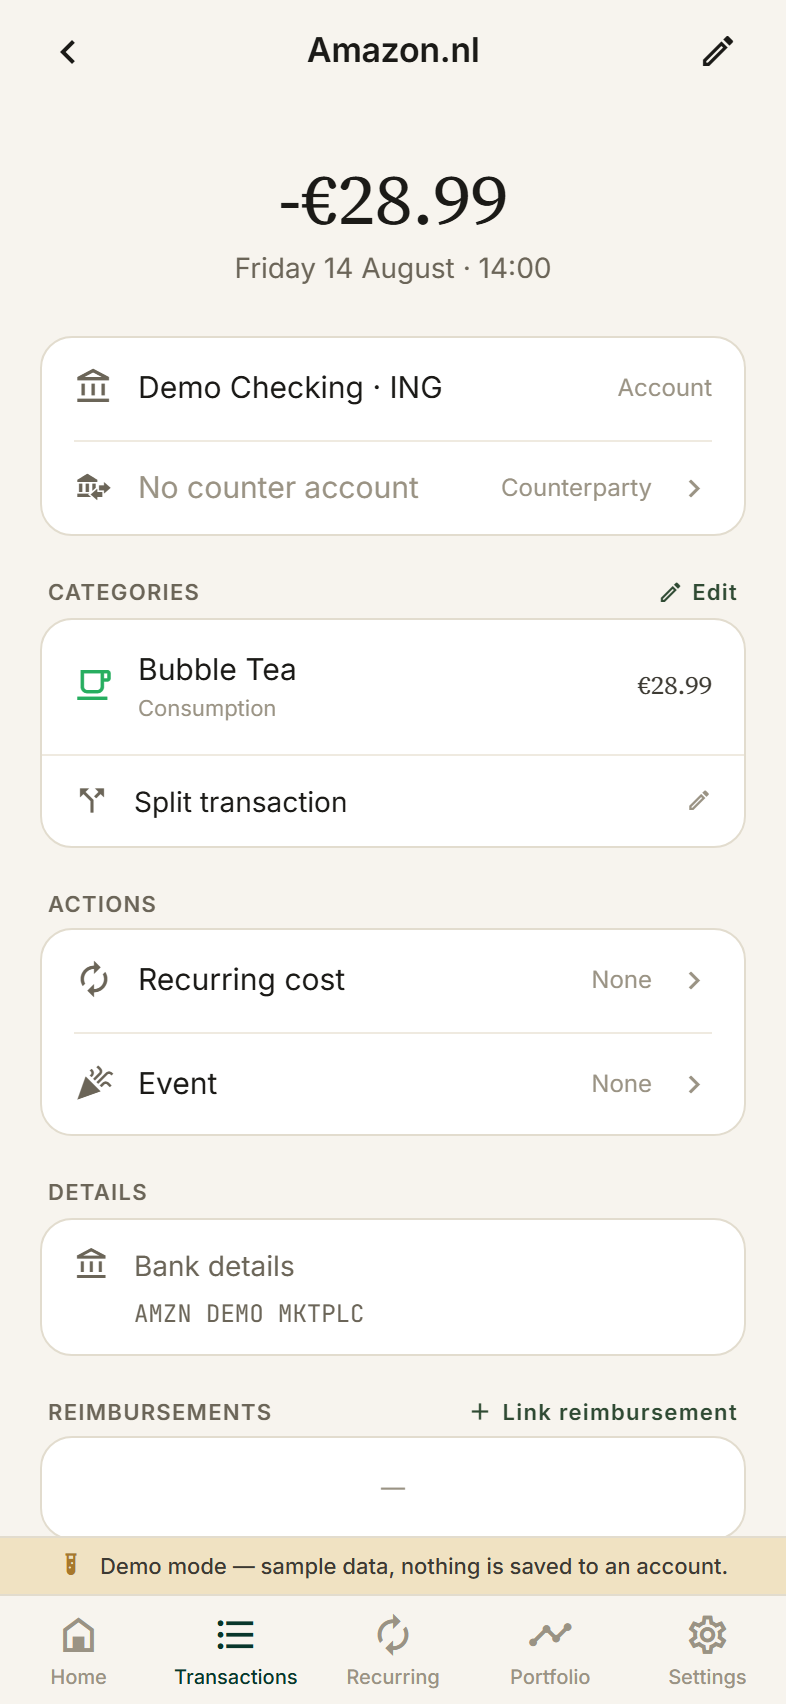
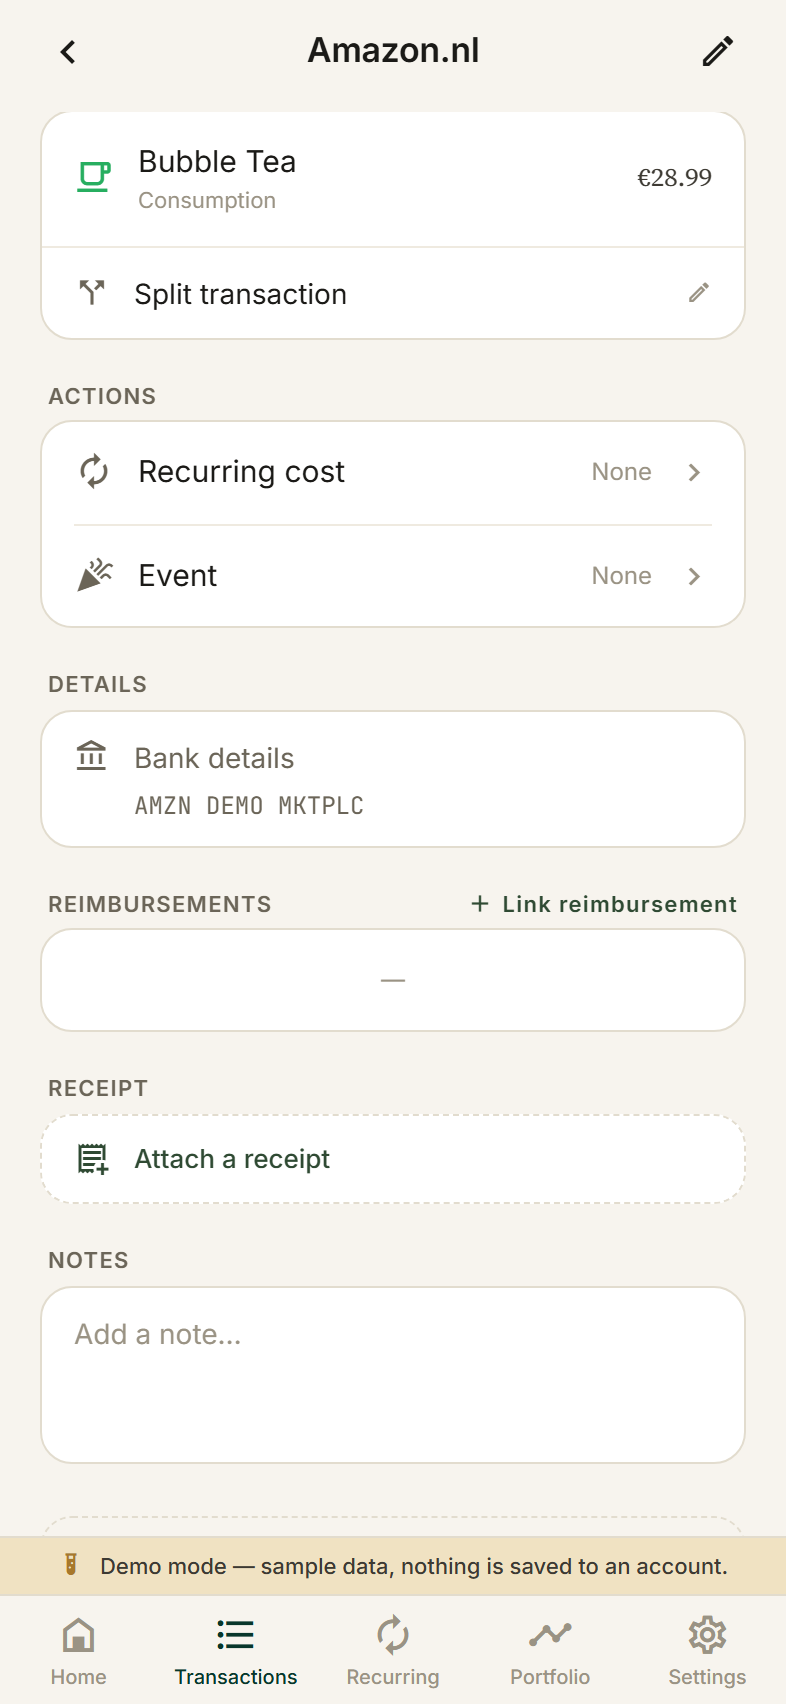
docs(guide): retell the 38-issue batch across the ten sections

diff --git a/apps/web/public/guide/index.html b/apps/web/public/guide/index.html
@@ -58,7 +58,7 @@
   <section id="home">
     <h2>Home is yours</h2>
     <p>Home is a landing zone of blocks: review queue, this period, new transactions, budgets, upcoming costs and more. Features you haven't tried yet gather in one compact Explore block instead of filling the page — tap a row to start; each disappears once it's in use, and Explore is a block like any other, so Customize Home orders or hides it too. Reorder or hide blocks with Customize Home at the bottom. The avatar on the top right switches spaces.</p>
-    <ul class="tips"><li>The balance band folds out to show every account — and you pick what the big number MEANS per space: net worth, total cash, safe to spend, or hand-picked accounts, with a per-account say in the sum.</li>
+    <ul class="tips"><li>The balance band folds out to show every account — and you pick what the big number MEANS per space: net worth, total cash and safe to spend are premade formulas, and "Picked accounts" is the one you compose yourself, checkbox by checkbox. On a wide screen Home splits into two columns only once there are enough blocks to fill them.</li>
 <li>Portfolio has its own tab at the bottom.</li>
 <li>The bell has two tabs now: Notifications collects release news, due reminders, the interest-rate nudge and the weekly digest (a numbered badge counts what you haven’t seen — opening the tab clears it), and Activity keeps the space’s audit trail with who did what.</li>
 <li>The space switcher tells you what each space would ask of you — a “N to review” pill and a red dot for a busted budget — and the avatar wears a dot whenever another space needs attention.</li>
@@ -98,6 +98,7 @@
     <h2>Reviewing transactions</h2>
     <p>The review deck shows one transaction at a time with a suggested category and the reason behind it. Everything you change — category, counterparty, splits — stays a draft until you hit Confirm. "Also apply to similar" catches the rest of the same merchant in one go.</p>
     <ul class="tips"><li>Tap the description to read the full bank text.</li>
+<li>Splitting the transaction is the last row on the card for a reason: categories, counterparty, recurring and event answer most cases without it.</li>
 <li>Skip is honest: it leaves no trace and the card returns later.</li>
 <li>Categories carry the meaning: a plain category files the money by its sign, and the marked ◆ special categories tell the special stories — Set aside, a loan payment, a transfer, money to the shared funding pot. Picking one asks the counterparty on the spot — or go counterparty-FIRST from the card\u2019s own Counterparty row: name the account and the special category fills itself. The ask pins the space\u2019s default account on top with one tap — every family has one now, cash withdrawals included — or a real account. Walk away from the ask and Confirm settles the row onto the default by itself — except plain Transfer: a transfer munni predicts must name a REAL account, so it reads the bank text for one of yours (your PayPal, a distinctively named pot) and pre-links it; with no such clue the card opens Uncategorized instead, and the transfer’s default bank account stays a deliberate pick inside the ask. The lists agree with each other: only categories that fit the account and the money\u2019s direction are offered, and the ask lists only accounts that category can mean — Set aside points at savings accounts, plain Transfer at regular ones. With a counterparty already picked the categories narrow to what IT can mean (a credit card: transfer or a debt payment) — and "Remove counterparty" inside the ask resets the category and frees the choice again.</li>
 <li>On a savings, loan or investment account the story is locked: the account itself types every one of its rows, and the sign reads the direction (+ on a loan = repaid).</li>
@@ -116,7 +117,9 @@
   <section id="transactions">
     <h2>Transaction details</h2>
     <p>Open any transaction to recategorize, split it, or set its counterparty — one per transaction, a property row of its own next to the account (a manual counterpart gets its own leg written automatically, and removing the counterparty resets the category); the bank's raw counterparty stays as a read-only "Original counterparty" fact under Details, and on manual rows a small Adjustment toggle marks corrections. Attach receipts, link recurring costs or events, and record reimbursements that show the net cost — on a split transaction the reimbursement stays ON the part: the part's headline shows what it is worth, the whole stays split, and only the parent's total moves along. Splitting has two gears — and they are different features. SPLIT CATEGORIES is the light one: the category editor spreads one payment across several regular categories, exact euros or percentages, and the row stays ONE transaction with everything a transaction has. A ◆ special category is different: it spans the whole transaction — one special, one counterparty — so it never shares a spread. SPLIT TRANSACTION is the heavy one — when one payment carries several kinds of money: each part has its own name ("Albert Heijn – split 1", rename freely), its own counterparty on its own row, even its own category spread — the €100 phone bill can be €50 telecom and €50 paying the device loan off, and the loan moves by exactly its €50; the container itself keeps no category at all. Settled value moves into the special Reimbursed category — real categories keep only what you truly paid; it stands pinned first in the category editor, read-only, and removing the reimbursement link is the only way to remove it — and the transactions tab has an "Unsettled reimbursements" quick filter for everything still waiting on money.</p>
-    <ul class="tips"><li>Search matches amounts too: typing 10 finds 10.99 and 210.15 — and part names, so "Sarah\u2019s loan" finds the payment that carries it.</li>
+    <ul class="tips"><li>One reading rule in the detail: a pencil edits right here, a chevron travels somewhere.</li>
+<li>The "Counter transactions" chip shows every linked leg on its own, pairs uncollapsed.</li>
+<li>Search matches amounts too: typing 10 finds 10.99 and 210.15 — and part names, so "Sarah\u2019s loan" finds the payment that carries it.</li>
 <li>A split shows its sub-transactions as rows of their own in the list, branching off a compact header that names the original payment with its full amount — the chevron folds them away; each row opens as its own page with its own type, categories, event, note and reimbursements, its sisters one tap away, and the whole transaction one more.</li>
 <li>Filters see through splits: when a category or type filter matches only some parts, exactly those parts show — aligned like any other row, wearing a small split mark — in the list and in the overview drill-downs alike.</li>
 <li>Amount fields in the split editor do math: type 87,40-25 and leave the field.</li>
@@ -137,7 +140,8 @@
   <section id="spaces">
     <h2>Spaces &amp; sharing</h2>
     <p>Spaces are separate bookkeeping areas — personal, household, a trip. Creating one is a full form now: name, icon and color, budget period, ledger currency and history start, all prefilled with sensible defaults so "type a name, press Create" still works. Invite friends into a shared space: everyone sees the same transactions but each space keeps its own categories and budgets. Attach a bank account to any number of spaces, each with its own history start. The card at the top of the Settings tab opens the space's own settings (name, image, color); its budget period, currency and default history start are separate settings right below it.</p>
-    <ul class="tips"><li>New spaces start locked private — nobody can be invited until the owner unlocks sharing in the space’s settings.</li>
+    <ul class="tips"><li>Creating a space asks the privacy choice right there (private by default). A space picture takes over from symbol and color while it is set, and the palette button on a space edits exactly that: its look.</li>
+<li>New spaces start locked private — nobody can be invited until the owner unlocks sharing in the space’s settings.</li>
 <li>Roles: owners manage members, contributors edit, readers only look.</li>
 <li>Leaving a space archives your attached accounts for the others instead of deleting history.</li>
 <li>Moving the history start counts its consequences before anything happens: bank rows hide but stay stored, manual rows before the date are deleted with a warning, and moving it older surfaces stored rows again. Manual transactions dated before the start are refused with a one-tap "move the start here" way out.</li>
@@ -161,7 +165,8 @@
   <section id="categories">
     <h2>Categories &amp; budgets</h2>
     <p>The built-in catalog covers most spending; create your own main or sub categories when it doesn't. Budgets track a limit per category per period, and the overview drills from totals into categories into transactions.</p>
-    <ul class="tips"><li>munni learns from you: confirm a merchant twice and it skips review next time. Every confirmation votes with a recency-weighted say — one dinner out never beats years of groceries, while a habit that truly shifts takes the lead after a few repeats — and the space\u2019s OWN history always answers before your other spaces do.</li>
+    <ul class="tips"><li>The category search rides along — it slips away as you browse down and returns the moment you scroll up; the ◆ chip filters to the special categories.</li>
+<li>munni learns from you: confirm a merchant twice and it skips review next time. Every confirmation votes with a recency-weighted say — one dinner out never beats years of groceries, while a habit that truly shifts takes the lead after a few repeats — and the space\u2019s OWN history always answers before your other spaces do.</li>
 <li>Can’t find a category while reviewing? The picker offers "create your own" right there.</li>
 <li>Direction is no longer a question: a subcategory simply follows its parent\u2019s nature. A NEW parent category always tracks spending — income lives under the special ◆ Income category, the one special parent open to your own subcategories.</li>
 <li>Investment tells five stories now: Invested and Withdrawn move money between your accounts and the brokerage, while Bought, Sold and Fees (plus Dividends) live on the brokerage\u2019s own ledger. Debt on a regular account is just Repaid or Borrowed — Interest charged and Fees exist only on the loan\u2019s own ledger.</li></ul>
@@ -185,7 +190,7 @@
     <p>Signed in, every device converges on the same data — edits made offline sync when you're back. Two people can edit the same transaction at once; the newer edit per field wins everywhere, identically. And if you ever want out of the cloud entirely, Profile → Go offline converts your account into a device-only offline profile: everything stays, bank-linked accounts become manual, your server data is erased, and other signed-in devices wipe themselves on their next sync.</p>
     <ul class="tips"><li>Push notifications tell you when new bank transactions arrive — tapping one opens that space\u2019s review directly.</li>
 <li>The sync card at the top of Settings shows the last successful sync.</li>
-<li>Profile → Devices lists every device signed in to your account — rename them, and disconnect one remotely: it erases its munni data the next time it connects.</li></ul>
+<li>Global settings → Devices lists every device signed in to your account — web devices name their browser and same-name twins number themselves (2), (3); rename them, and disconnect one remotely: it erases its munni data the next time it connects.</li></ul>
     <div class="shots"><figure><img src="shots/25-sync-devices--en-light-mobile.png" alt="Devices &amp; offline" loading="lazy"></figure>
 <figure><img src="shots/58-sync-live--en-light-mobile.png" alt="Devices &amp; offline" loading="lazy"></figure>
 <figure><img src="shots/38-offline--en-light-mobile.png" alt="Devices &amp; offline" loading="lazy"></figure></div>
